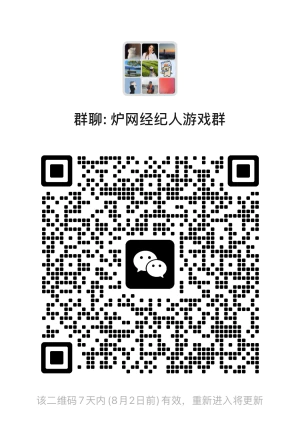
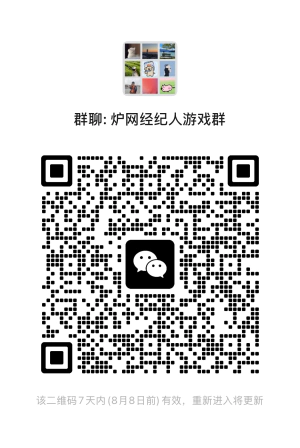
Refresh manager group QR code

Changed region(s): [[0.12, 0.3438, 0.87, 0.8438], [0.39, 0.0938, 0.6, 0.2188], [0.42, 0.875, 0.45, 0.9062]]

diff --git a/index.html b/index.html
@@ -4640,7 +4640,7 @@ function renderManagerDemo(force){
           ?managerStationName()+'换人窗口：'+transferWindowLabel+crossTourNotice
           :(allTransferAfter?managerStationName()+'换人窗口已结束。':managerStationName()+'已截止提交，请等待换人窗口。')))
       :managerStationName()+'开售时间待确认。');
-  var wechat='<div class="manager-wechat-card"><div class="manager-wechat-copy"><div class="manager-wechat-alert">'+esc(stationNotice)+'</div><div class="manager-wechat-line main">本游戏每周跟随巡回赛历开新赛事</div><div class="manager-wechat-line">如需 <span class="manager-wechat-em">开售提醒</span>、<span class="manager-wechat-em">换人窗口提醒</span> 请扫码进本游戏官方群</div></div><img class="manager-wechat-qr" src="assets/manager/wechat-group-qr.webp?v=20260726-2" alt="微信群二维码" width="92" height="122" loading="eager" decoding="async" fetchpriority="high"></div>';
+  var wechat='<div class="manager-wechat-card"><div class="manager-wechat-copy"><div class="manager-wechat-alert">'+esc(stationNotice)+'</div><div class="manager-wechat-line main">本游戏每周跟随巡回赛历开新赛事</div><div class="manager-wechat-line">如需 <span class="manager-wechat-em">开售提醒</span>、<span class="manager-wechat-em">换人窗口提醒</span> 请扫码进本游戏官方群</div></div><img class="manager-wechat-qr" src="assets/manager/wechat-group-qr.webp?v=20260801-1" alt="微信群二维码" width="92" height="122" loading="eager" decoding="async" fetchpriority="high"></div>';
   var previewPending=managerLocalSimulationMode()&&MANAGER_ACTIVE_EVENTS&&MANAGER_ACTIVE_EVENTS.status==='preview';
   var previewReady=previewPending&&MANAGER_ACTIVE_EVENTS.rules&&MANAGER_ACTIVE_EVENTS.rules.combo_design_status==='confirmed'&&submissionWindow.status!=='pending';
   var qaBanner=managerLocalSimulationMode()?'<div class="manager-note" style="margin-bottom:10px"><b>'+(managerLocalQaMode()?'本地换人测试模式：':'本地模拟提交模式：')+'</b>'+(previewPending&&!managerLocalQaMode()?(previewReady?'本站签表、排名、Elo、价格、开售时间和 Combo 已确认，可测试低保折扣与阵容提交；换人窗口仍待确认。':'本站仅供审核官方签表、排名、Elo、价格和组建草稿；开售时间、Combo 和换人窗口尚未确认。'):(managerLocalQaMode()?'提交和换人窗口均已开放；':'可以正常测试选择球员、提交、撤回和换人；'))+'这些阵容操作只保存在当前浏览器，不会写入线上 Supabase。</div>':'';
